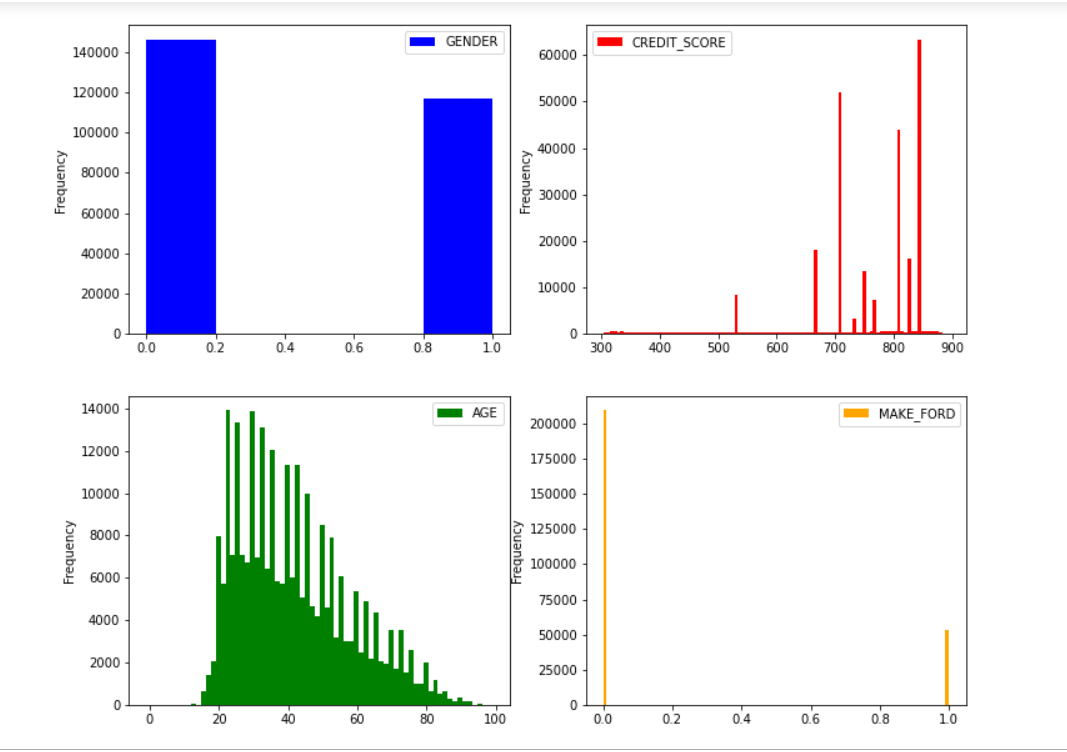
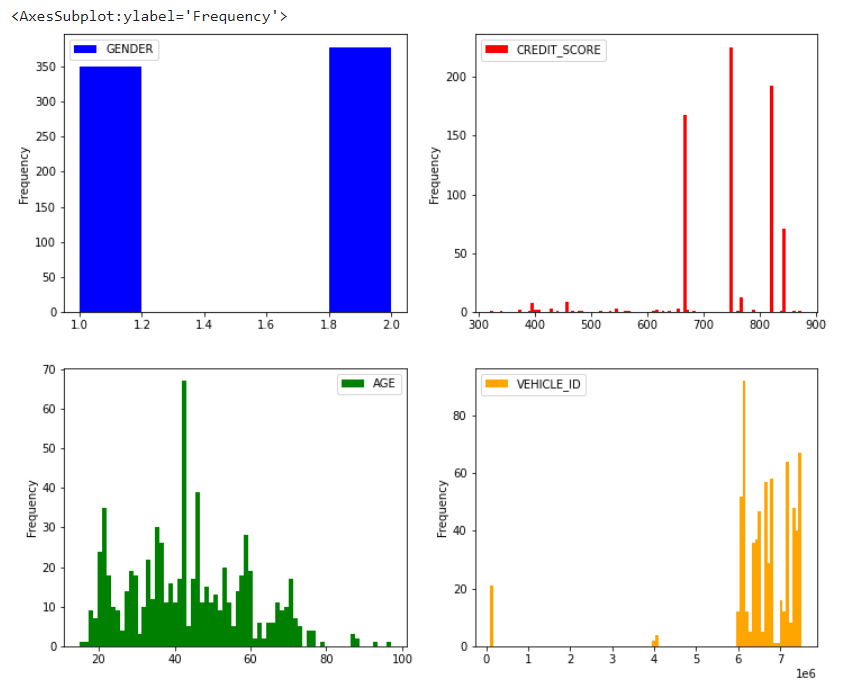
All done

diff --git a/README.md b/README.md
@@ -1,21 +1,21 @@
 # Sneak Score - Machine Learning Experience 
-
+### Click below link to see "Sneaky Score" web view
+![Sneaky Score Site](https://sonmiannkim-sneakyscore-app-0dnw3w.streamlitapp.com/)
 
 ## Overview of the Machine Motivation:
-
 ##### Have you ever wondered what totally unrelated data might do when you run your machine learning program?  Well, that was what I wanted to try.
-I wanted to see what car you are driving indicate what kind financial freedom you have. Especially by Gender, it would be interesting to see since guys 
+I wanted to see what car you are driving might indicate what kind financial freedom you have. Especially by Gender, Age.  It would be interesting to see since guys 
 love what they are driving more than women.  so here we go.  I am about to predict the your credit score!
 
 ##### Data
--	Drivers data - Data from a Car insurance company randomly selected from year 2020 to 2011 insured or attempted to insure
+-	Drivers - This data is from a Car insurance company randomly selected from year 2020 to 2022 insured or attempted to insure with no credit score or credit score
 	- Features: Gender, DOB, Credit Score, Owned Vehicle ID (which maps to Vehicles data)
--	Vehicles data - From HLDI vehicle service (Third party provides vehicle details) - selected vhicles between 2010 through 2022
+-	Vehicles - From HLDI vehicle service (Third party provides vehicle details A to Z) - selected vhicles between 2010 through 2022 only the followings
 	- Features: Year, Make, Model
 	
-- 	Extracted data from DB2
+- 	DataBase From : DB2
 	
--	I am hoping that the data is somewhat releated and tells me something meaningful.
+-	I am hoping that the data is somewhat releated each other and each features tells me something meaningful about the owner credit score.
 
 ### Preprocessing the Data  
 
@@ -23,53 +23,59 @@ love what they are driving more than women.  so here we go.  I am about to predi
 		
 		![raw drivers table](population_diagram.PNG )	<br>
 
--	Sample data of xsls files generated from DB2 instances (500 rows) in the begining of project
+-	Sample data of xlsx files generated from DB2 instances (500 rows) in the begining of the project
 - 	Created ETL programs such as with Samples :
-	- DOB is converted to age
-	![vine review is empty](vine_empty.png)	
+	- DOB is converted to age	
 	- Null, NA, blank data is dropped
-	- Gender is dummified
-	- Question was what to do with vehicle
-	- Ran a simple model, and gained some score, however the number wasn't feasable
--	Sample data of xls files generated from DB2 instances (500 rows) in the begining of project
-	- Later adopted real data set I wanted to run against
-	- It was total 2 milion data. Ran it against sample code and it wasn't capable running (Random Forest)
-	- Reduced to 1/2 and dropped data group < 100
+	- Gender is dummified, rather assigned to 0 (Female) or 1 (Male)
+	- Question was what to do with vehicle :  Dummified to Year, Make, Model (only the first part of model name)
+	- Ran a simple model, and gained some score.
+-	Real data of csv files generated from DB2 instances (28 million rows).
+	- Filtered Model counts more than 1000, thought less than 1000 might not be significant.
+	- Reduced to 7,468,462, drivers which was a lot easier to do the rest ETLs
+	- Total of 3547 vehicles remained to those drivers
 	- Converted the categorical values to Predictable values using dummy  function (Independent data)
+	- As looking at the diagrams, there were many defaulted credit scores ( The quotes didn't go further enough to order credit) and I dropped that as well.
+	- Total of 1,048,547 data left (Less than 10 % sales, that'd been expected)
 	- Ran K-Means to determine the Bin size and it was similar to standard credit score evaluation, so decided go for it, since it can be very well used when it is interacting web application.
-
-
-### Clustering Cryptocurrencies Using K-means - 
+	- Later made it to the range rather to reflect the true standard values of following: 850~Superior, 795~Excellent, 690~Good, 625~Average, 570~Below Average, 525~Poor 
+	- When predicted, added an explaination to the score.
+	
+### Clustering Drivers/Vehicles Using K-means - 
 KMeans – using centroid relocate each centroid to the mean of its assigned ovservations until the clusters no longer change
-Note : Also we can use  the WWS (within-cluster sum of Squares)
-![Centroids Explained](Images/centroid_explained.PNG)	
+![KMeans](Images/elbow_diagram.PNG)	
+Note 1: Also we can use  the WWS (within-cluster sum of Squares)
 
-### visualizing 
-This estimator scales and translates each feature individually such that it is in the given range on the training set, 
-e.g. between zero and one.
+Note 2: Although I ended up using the standard evaluation of the credit score, K-means showed very smilar to the range.
 
+### visualizing to Understand the data
+Simple Graphs were generated to visualize the data
+##### Age with outliers
+![Age with outliers](Images/age_outliers.PNG)
+##### Population Diagram
+![Cross Validation](Images/population_diagram.PNG.PNG)
+##### Correlation Heatmap
+![Cross Validation](Images/co_eff_plot.PNG)
+##### 3D View with bucketed score
+![3D View](Images/scored_bucket.PNG)
+
+### Modeling
+- Scaling - Standard Scaling is used from sklearn processing to nomalize the data
+- Basic Linear Regression to see exepected scores (Score is the R2 Score, which varies between 0 to 100%) : 0.025 ( As expected, it wasn't feasible, where it made me to almost switch or add more data, but for sake of the project, continued)
+- For project purposes Multiple Linear Regression Model, Decision Tree Regression Model, Random Forest Regression Model was tested
+- To compare / cross Evaluation K-Fold cross Validation, R2 Score, MSE (Mean Squared Error), RSME (Root Mean Squared Error)  was generated
+![Cross Validation](Images/models_testing_compared.PNG)
+- Also Actual Score and expected scores were compared
+![Actual vs Expected](Images/actual_predicted_score.PNG)
 
 ## Analysis Results:
-
-
-#### Viweing - There are two primary methodologies for feature scaling in Machine Learning:  Normalization (scaled values are re-arranged to range between 0 to 1) and Standardization. 
-Not all feature scaling (values are re-arranged to around means) works for all data, one can improve the performance significantly than the other depending on the data. Machine learning algorithms use
-gradient descent as an optimization technique that requires data to be scaled. In this step, we cleaned the data, by droping missing values and numericalize values using get_dummies.
-Then we chose Standardization to transform the data for the DecisionTree.  
-
-
-
-
-
-
-
-#### Clustering Cryptocurrencies Using K-means: Machine Learning also uses distance algotithms 
-
-
-#### visualizing the Results:  In this step using all prepared data from the previous steps, We created 3D to visualized data so far. 
+- The result wasn't what I expected.  There will be several reason for the result as I inspect the history chart. Almost 70 to 80 % population belongs to the credit range of upper 600 to mid 800 which means majorities are belong to Good thru Excellent range.
+- Ages are also noticed. Poplution average is mid 40th, although there are many between 20 to 40s, still it is unbalanced.
+- Another issue wasn't considered was this data is from secondary insurance service, therefore majorities have an accident or two.  Considering the fact, they would want to purchase the car insurance that gives them lowest premium, therefore good credit standing is required.
+- Also Vehicle population is very concentrated on middle class range, not a huge differences in price
+- Overall, the project seem swam around the pool rather than the ocean. 
 
 ## Analysis Summary:
-
-As you can see in our visualization, there are outliers (class 1, class 3).  However, using Standardization, 
-which is following the Gaussian distribution, those outliers won't be affected by standardization (3D), and the clusters range from close to their mean, to compressed.
+Mission accomplished. Alwasy the process is better than the result.  Many steps required research and I've done the plenty last 4 weeks. 
+Therefore I am satisfied what I've got. Finally all things go back to normal and I will continue the  Machine Learning threads, perhaps one day I look back and say "Did I do that? Oh..." Leave it to the future now.
 
